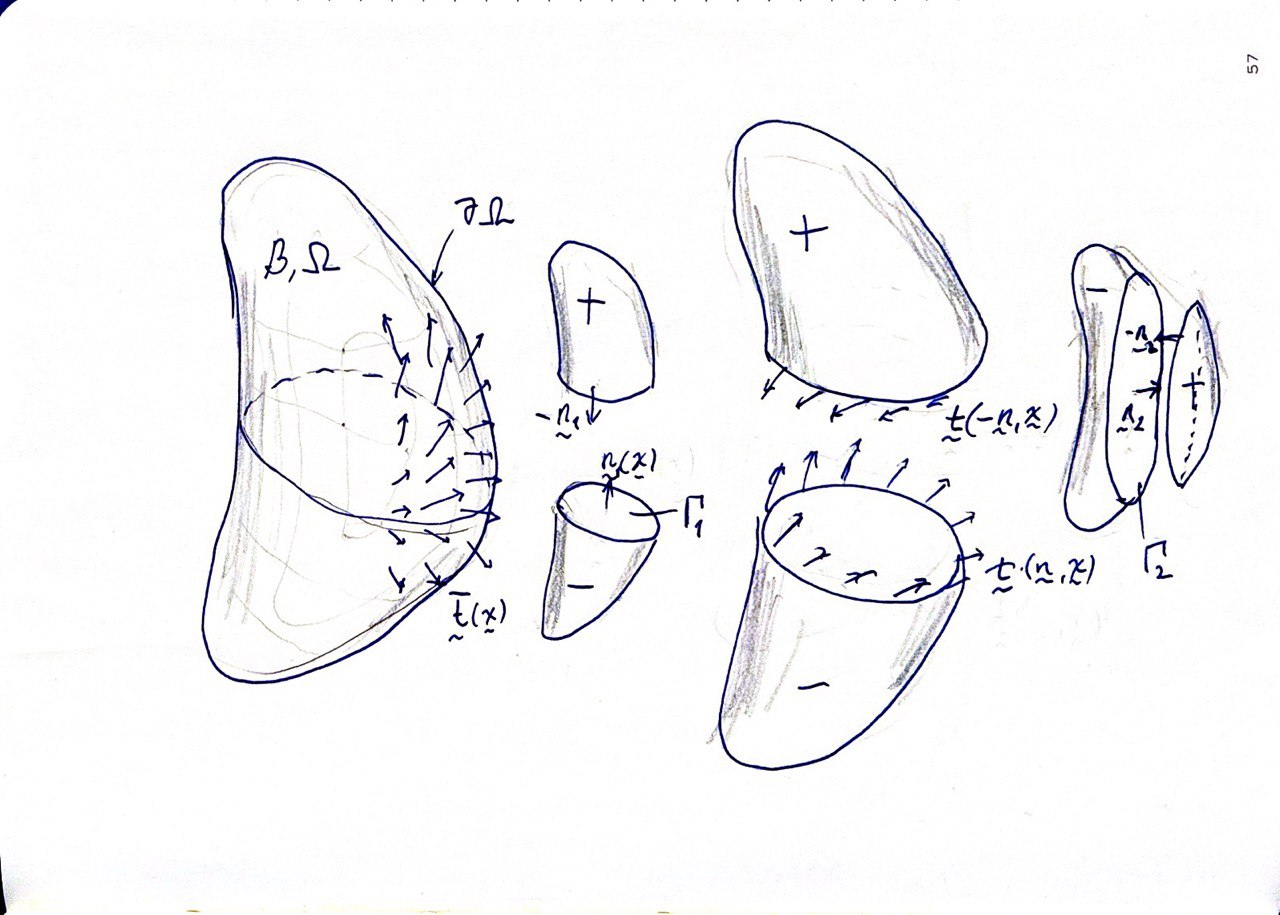
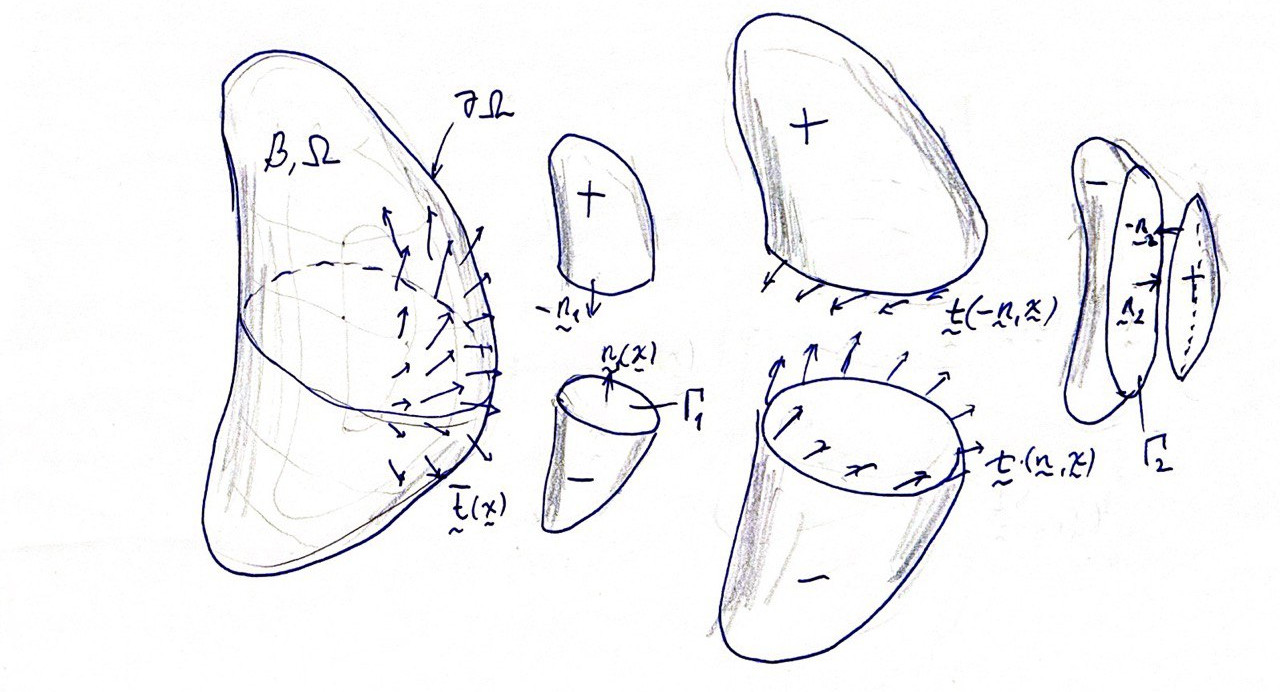
added more to surface tractions

diff --git a/lecture-slides/U3-mass-force.html b/lecture-slides/U3-mass-force.html
@@ -36,17 +36,17 @@
 <h2>Table of Contents</h2>
 <div id="text-table-of-contents" role="doc-toc">
 <ul>
-<li><a href="#/slide-org6f4c6aa">(\(\S 3.1\)) Continuum Bodies (Session 9)</a></li>
-<li><a href="#/slide-org90f1b2a">(\(\S 3.3.2\)) Surface Forces</a></li>
+<li><a href="#/slide-org7e44205">(\(\S 3.1\)) Continuum Bodies (Session 9)</a></li>
+<li><a href="#/slide-orgb91ca0c">(\(\S 3.3.2\)) Surface Forces (Session 10)</a></li>
 </ul>
 </div>
 </div>
 </section>
 <section>
-<section id="slide-org6f4c6aa">
-<h2 id="org6f4c6aa">(\(\S 3.1\)) Continuum Bodies (Session 9)</h2>
+<section id="slide-org7e44205">
+<h2 id="org7e44205">(\(\S 3.1\)) Continuum Bodies (Session 9)</h2>
 
-<div id="org7549548" class="figure">
+<div id="org33724cd" class="figure">
 <p><img src="../images/Continuum_body.svg" alt="Continuum_body.svg" class="org-svg" width="600px" />
 </p>
 </div>
@@ -59,10 +59,10 @@
 
 </ul>
 </section>
-<section id="slide-org319c3f0">
-<h3 id="org319c3f0">(\(\S 3.2\)) Volume and Mass</h3>
+<section id="slide-org991fe49">
+<h3 id="org991fe49">(\(\S 3.2\)) Volume and Mass</h3>
 
-<div id="org90be817" class="figure">
+<div id="orge121374" class="figure">
 <p><img src="../images/Continuum_body.svg" alt="Continuum_body.svg" class="org-svg" width="300px" />
 </p>
 </div>
@@ -73,40 +73,53 @@
 
 </ul>
 </section>
-<section id="slide-org7601599">
-<h4 id="org7601599">(\(\S 3.2.2\)) Centers of Volume and Mass</h4>
+<section id="slide-orgd59c30e">
+<h4 id="orgd59c30e">(\(\S 3.2.2\)) Centers of Volume and Mass</h4>
 
-<div id="org10c814f" class="figure">
+<div id="org53f63e8" class="figure">
 <p><img src="../images/Continuum_body.svg" alt="Continuum_body.svg" class="org-svg" width="300px" />
 </p>
 </div>
 <ul>
 <li class="fragment appear">By the center of volume of an open subset \(\Omega\) of \(\mathcal{B}\) we mean the point \[\boldsymbol{x}_\mathrm{cov} = \frac{1}{\mathrm{vol}[\Omega]} \int_\Omega \boldsymbol{x} dV.\]</li>
+<li class="fragment appear">This integral is known as the first moment of volume about \(O\).</li>
 <li class="fragment appear">By the center of mass of an open subset \(\Omega\) of \(\mathcal{B}\) we mean the point \[\boldsymbol{x}_\mathrm{com} = \frac{1}{\mathrm{mass}[\Omega]} \int_\Omega \boldsymbol{x} \rho(\boldsymbol{x}) dV.\]</li>
 
 </ul>
+
 </section>
-<section id="slide-orgf93de6d">
-<h3 id="orgf93de6d">(\(\S 3.3\)) Body Forces</h3>
+<section id="slide-orgd59c30e-split">
+</section>
+<section id="slide-orgbd58797">
+<h3 id="orgbd58797">(\(\S 3.3\)) Body Forces</h3>
+
+<div id="org3e4a7d0" class="figure">
+<p><img src="../images/forces_in_nature.jpg" alt="forces_in_nature.jpg" width="1200px" />
+</p>
+</div>
 <ul>
-<li class="fragment appear">The abstract notion describing the physical effect of attraction/repulsion.</li>
-<li class="fragment appear">Units of force: Newton (SI), dyne (SI), pounds (US), etc.</li>
+<li class="fragment appear">How do body forces arise from distant effects such as gravity, electromagnetism?</li>
 
 </ul>
 </section>
-<section id="slide-orgac3e103">
-<h4 id="orgac3e103">(\(\S 3.3.1\))  Resultant Forces (Integrals)</h4>
+<section id="slide-org4dd03eb">
+<h4 id="org4dd03eb">(\(\S 3.3.1\))  Body Forces and their Resultants (Integrals)</h4>
+
+<div id="orgbb7f691" class="figure">
+<p><img src="../images/traction_bodyIntegrals.jpg" alt="traction_bodyIntegrals.jpg" width="360px" />
+</p>
+</div>
 <ul>
-<li class="fragment appear">This term refers, in general, to any force field, \(\boldsymbol{b}(\boldsymbol{x})\), that does not arise from physical contact (between bodies).</li>
-<li class="fragment appear">Example: gravity, \(g\) (has units of m/s\(^2\))</li>
+<li class="fragment appear">Let, \(\boldsymbol{b}(\boldsymbol{x}):\mathbb{E}^3 \to \mathcal{V}\), denote any force field that does not arise from physical contact (between bodies).</li>
+<li class="fragment appear">Example: gravity, \(\boldsymbol{g}\) (has units of m/s\(^2\))</li>
 <li class="fragment appear">It is usually measured in terms of the force field per unit mass (i.e. force/mass)</li>
-<li class="fragment appear">Let \(\Omega\) be an the entire region enclosing \(\mathcal{B}\), or an arbitrary subset of it. Then the resultant force on \(\Omega\) due to a body force field is defined as \[\boldsymbol{r}_b[\Omega] = \int_\Omega \rho(\boldsymbol{x}) \boldsymbol{b}(\boldsymbol{x}) dV,\]</li>
-<li class="fragment appear">and the resultant torque about a point \(\boldsymbol{z}\) can be written as  \[\boldsymbol{\tau}_b[\Omega] = \int_\Omega (\boldsymbol{x} - \boldsymbol{z}) \times \rho(\boldsymbol{x}) \boldsymbol{b}(\boldsymbol{x}) dV.\]</li>
+<li class="fragment appear">Let \(\Omega\) be an open volume in \(\mathcal{B}\), then, the resultant force accumulating in \(\Omega\) due to \(\boldsymbol{b}\) is \[\boldsymbol{r}_b[\Omega] = \int_\Omega \boldsymbol{b}(\boldsymbol{x}) \rho(\boldsymbol{x}) dV,\]</li>
+<li class="fragment appear">and the resultant torque about a point \(\boldsymbol{z}\) can be written as  \[\boldsymbol{\tau}_b[\Omega,\boldsymbol{z}] = \int_\Omega (\boldsymbol{x} - \boldsymbol{z}) \times \boldsymbol{b}(\boldsymbol{x}) \rho(\boldsymbol{x}) dV.\]</li>
 
 </ul>
 </section>
-<section id="slide-org268f6b7">
-<h3 id="org268f6b7">Questions for next session</h3>
+<section id="slide-org4e7358a">
+<h3 id="org4e7358a">Questions for next session</h3>
 <p>
 Ask AI:
 </p>
@@ -115,8 +128,8 @@ Ask AI:
 
 </ul>
 </section>
-<section id="slide-org6877285">
-<h3 id="org6877285">Deliverables</h3>
+<section id="slide-org10dab83">
+<h3 id="org10dab83">Deliverables</h3>
 <p>
 Students should be able to:
 </p>
@@ -127,49 +140,87 @@ Students should be able to:
 </section>
 </section>
 <section>
-<section id="slide-org90f1b2a">
-<h2 id="org90f1b2a">(\(\S 3.3.2\)) Surface Forces</h2>
+<section id="slide-orgb91ca0c">
+<h2 id="orgb91ca0c">(\(\S 3.3.2\)) Surface Forces (Session 10)</h2>
 
-<div id="org38d4a09" class="figure">
-<p><img src="../images/traction_definitions.jpg" alt="traction_definitions.jpg" width="1200 px" />
+<div id="orgc0eb6b2" class="figure">
+<p><img src="../images/traction_glued.jpg" alt="traction_glued.jpg" width="1200 px" />
 </p>
 </div>
 <ul>
-<li class="fragment appear"><i>External traction field</i>, \(\bar{\boldsymbol{t}}(\boldsymbol{x})\), arises on the <i>external</i> boundary of the three-dimensional domain, \(\Omega\), whereas <i>internal traction fields</i>, \(\boldsymbol{t}(\boldsymbol{n},\boldsymbol{x})\), arise over <i>internal</i> surfaces.</li>
-<li class="fragment appear">\(\partial\Omega\) denotes the outer boundary of the domain \(\Omega\).</li>
-<li class="fragment appear">\(\Gamma\) is used to denote arbitrary two-dimensional domains that separate \(\Omega\) into a negative (\(-\)) and a positive (\(+\)) side.</li>
+<li class="fragment appear">How do surface forces, a.k.a. tractions arise from the mutual interaction (contact) between a pair of bodies?</li>
+<li class="fragment appear">Contact occurs over the <i>boundary</i> of \(\mathcal{B}\), i.e. \(\partial\mathcal{B}\), boundary tractions are labeled \(\bar{\boldsymbol{t}}\).</li>
 
 </ul>
 </section>
-<section id="slide-org674b8ba">
-<h3 id="org674b8ba">Definitions</h3>
+<section id="slide-orgc4e9110">
+<h3 id="orgc4e9110">Definitions</h3>
 
-<div id="org56d4d9b" class="figure">
-<p><img src="../images/traction_definitions.jpg" alt="traction_definitions.jpg" width="1200 px" />
+<div id="org0a557ec" class="figure">
+<p><img src="../images/traction_definitions.jpg" alt="traction_definitions.jpg" width="1400 px" />
 </p>
 </div>
 <ul>
-<li class="fragment appear">The force, per unit area, exerted by material on the positive side of the surface \(\Gamma\) upon material on the negative side is assumed to be given by a function \(\boldsymbol{t} (\boldsymbol{n}, \boldsymbol{x}): \mathcal{N} \times \mathcal{B} \to \mathcal{V}\), which we call the <b>traction function</b>.</li>
-<li class="fragment appear">When the surface \(\Gamma\) is part of of the bounding surface \(\partial\mathcal{B}\), the external tractions imposed upon the body are denoted as \(\bar{\boldsymbol{t}} = \boldsymbol{t} (\bar{\boldsymbol{n}}, \boldsymbol{x})\), where \(\bar{\boldsymbol{n}}\) denotes the outward unit normal field.</li>
+<li class="fragment appear">\(\Gamma\)  denotes arbitrary two-dimensional domain separating \(\mathcal{B}\) into a (\(-\)) and a (\(+\)) side.</li>
+<li class="fragment appear">The force, per unit area, exerted by the (\(+\)) side of  \(\Gamma\) upon the (\(-\)) side is the <b>traction function</b>, \(\boldsymbol{t} (\boldsymbol{n}, \boldsymbol{x}): \mathcal{N} \times \mathcal{B} \to \mathcal{V}\).</li>
+<li class="fragment appear">When the \(\Gamma\) is part of \(\partial\mathcal{B}\), tractions become the boundary tractions,  \(\boldsymbol{t} = \bar{\boldsymbol{t}}\).</li>
 
 </ul>
 </section>
-<section id="slide-orgefc13ff">
-<h3 id="orgefc13ff">Resultant Forces (Integrals)</h3>
+<section id="slide-orgafde24b">
+<h4 id="orgafde24b">Example 1: Balance of Tractions in an Axial Bar</h4>
 
-<div id="org414d99e" class="figure">
-<p><img src="../images/traction_integrals.jpg" alt="traction_integrals.jpg" width="1200 px" />
+<div id="orgc259839" class="figure">
+<p><img src="../images/traction_axialbar.jpg" alt="traction_axialbar.jpg" width="1200 px" />
+</p>
+</div>
+
+<p>
+The bar is under axial tension transmitted over its glued end surfaces
+</p>
+
+<p>
+Motivations:
+</p>
+<ul>
+<li class="fragment appear">How does the surface shear tractions applied at the ends gradually dive into the body and become normal tractions?</li>
+<li class="fragment appear">How are the applied forces related with boundary tractions over the glued surfaces?</li>
+<li class="fragment appear">How can the resultant of the internal normal tractions be computed?</li>
+
+</ul>
+</section>
+<section id="slide-orgba0ce32">
+<h3 id="orgba0ce32">Resultant Forces (Integrals)</h3>
+
+<div id="org6bb131e" class="figure">
+<p><img src="../images/traction_surfaceIntegrals.jpg" alt="traction_surfaceIntegrals.jpg" width="360 px" />
 </p>
 </div>
 <ul>
 <li class="fragment appear">Similar to the integrals of body forces we define the resultant force due to a traction field over  \(\boldsymbol{r}_s[\Omega]\), due to (surface) boundary tractions as
 \[\boldsymbol{r}_s[\partial\Omega] = \int_{\partial\Omega} \bar{\boldsymbol{t}} dA,\]</li>
-<li class="fragment appear">and the resultant torque about point \(\boldsymbol{z}\), \(\boldsymbol{\tau}_s[\partial\Omega,\boldsymbol{z}]\) as   \[\boldsymbol{\tau}_s[\partial\Omega,\boldsymbol{z}] = \int_{\partial\Omega} (\boldsymbol{x} - \boldsymbol{z}) \times \bar{\boldsymbol{t}} dA.\]</li>
+<li class="fragment appear">and the resultant torque about point \(\boldsymbol{z}\) as   \[\boldsymbol{\tau}_s[\partial\Omega,\boldsymbol{z}] = \int_{\partial\Omega} (\boldsymbol{x} - \boldsymbol{z}) \times \bar{\boldsymbol{t}} dA.\]</li>
 
 </ul>
 </section>
-<section id="slide-org62b83e9">
-<h3 id="org62b83e9">Postulate of action/reaction</h3>
+<section id="slide-org95cb388">
+<h4 id="org95cb388">Example 2: Balance of Tractions in a Cylindrical Vessel</h4>
+
+<div id="orgc1807cf" class="figure">
+<p><img src="../images/traction_vessel.jpg" alt="traction_vessel.jpg" width="1000px" />
+</p>
+</div>
+
+<p>
+The vessel is inflated by applying internal pressure
+</p>
+<ul>
+<li></li>
+
+</ul>
+</section>
+<section id="slide-org8dde296">
+<h3 id="org8dde296">Postulate of action/reaction</h3>
 <p>
 The tractions at a point \(\boldsymbol{x}\) over a plane with normal \(\boldsymbol{n}\) are equal and opposite of those that occur on the reciprocal (flipped) plane. \[\boldsymbol{t} (\boldsymbol{-n}, \boldsymbol{x}) = - \boldsymbol{t} (\boldsymbol{n}, \boldsymbol{x})\]
 </p>
@@ -179,31 +230,30 @@ The tractions at a point \(\boldsymbol{x}\) over a plane with normal \(\boldsymb
 
 </ul>
 </section>
-<section id="slide-orgf00a5b1">
-<h3 id="orgf00a5b1">Cauchy&rsquo;s Stress Postulate</h3>
+<section id="slide-orgf530133">
+<h3 id="orgf530133">Cauchy&rsquo;s Stress Postulate</h3>
 
-<div id="orgc019370" class="figure">
+<div id="org34c0c01" class="figure">
 <p><img src="../images/stress_tetrahedron.png" alt="stress_tetrahedron.png" width="600 px" />
 </p>
 </div>
 <ul>
 <li class="fragment appear">Imagine a tetrahedron in \(\mathcal{B}\) with three edges parallel to the coordinates \(x_i\) cornered at point \(\boldsymbol{x}\), intersected by a plane with unit normal \(\boldsymbol{n}\) as shown in the figure above.</li>
-<li class="fragment appear">The internal traction vector on the plane with unit normal $\boldsymbol{n} is \(\boldsymbol{t} (\boldsymbol{n}, \boldsymbol{x})\)</li>
+<li class="fragment appear">The internal traction vector on the plane with unit normal \(\boldsymbol{n}\) is \(\boldsymbol{t} (\boldsymbol{n}, \boldsymbol{x})\)</li>
 <li class="fragment appear">The internal traction vectors on the coordinate planes having normals \(-\boldsymbol{e}_j\) are \(\boldsymbol{t} (-\boldsymbol{e}_j, \boldsymbol{x})\)</li>
 <li class="fragment appear">By extending the arguments of force equilibrium the above tractions can be shown to obey \[\boldsymbol{t} (\boldsymbol{n}, \boldsymbol{x}) + \sum_{j=1}^3 \boldsymbol{t} (-\boldsymbol{e}_j, \boldsymbol{x}) n_j = \boldsymbol{0}.\]</li>
 
 </ul>
 
 </section>
-<section id="slide-orgf00a5b1-split">
+<section id="slide-orgf530133-split">
 
-<div id="orgd60fe0e" class="figure">
+<div id="org56978f7" class="figure">
 <p><img src="../images/stress_tetrahedra.jpg" alt="stress_tetrahedra.jpg" width="600 px" />
 </p>
 </div>
 <ul>
-<li>It can be argued that there exists a second-order tensor field, \(\boldsymbol{S} (\boldsymbol{x}):\mathcal{B} \to \mathcal{V}^2\), called the <b>stress field</b>, which is a transformer between the unit normal field  and the traction field given as \[\boldsymbol{t}(\boldsymbol{n}, \boldsymbol{x}) = \boldsymbol{S}(\boldsymbol{x}) \boldsymbol{n},\]</li>
-<li>where \(S_{ij} = t_i(\boldsymbol{e}_j, \boldsymbol{x})\)</li>
+<li>There exists a second-order tensor field, \(\boldsymbol{\sigma} (\boldsymbol{x}):\mathcal{B} \to \mathcal{V}^2\), called the <b>stress field</b>, which transforms the unit normal field  into the traction field as \[\boldsymbol{t}(\boldsymbol{n}, \boldsymbol{x}) = \boldsymbol{\sigma}(\boldsymbol{x}) \boldsymbol{n}\quad \mathrm{or} \quad \boldsymbol{t} = \boldsymbol{\sigma} \boldsymbol{n}\]  where \(\sigma_{ij} = t_i(\boldsymbol{e}_j, \boldsymbol{x})\)</li>
 
 </ul>
 </section>
